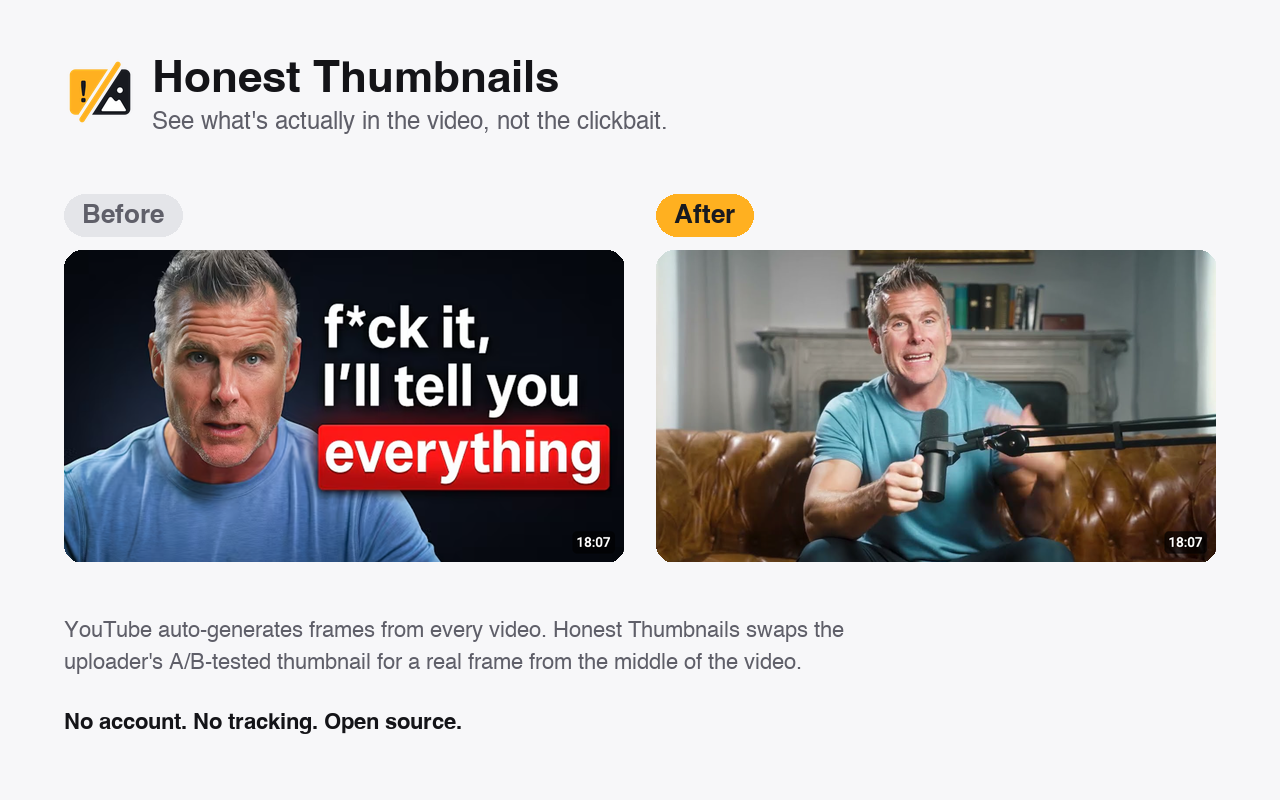
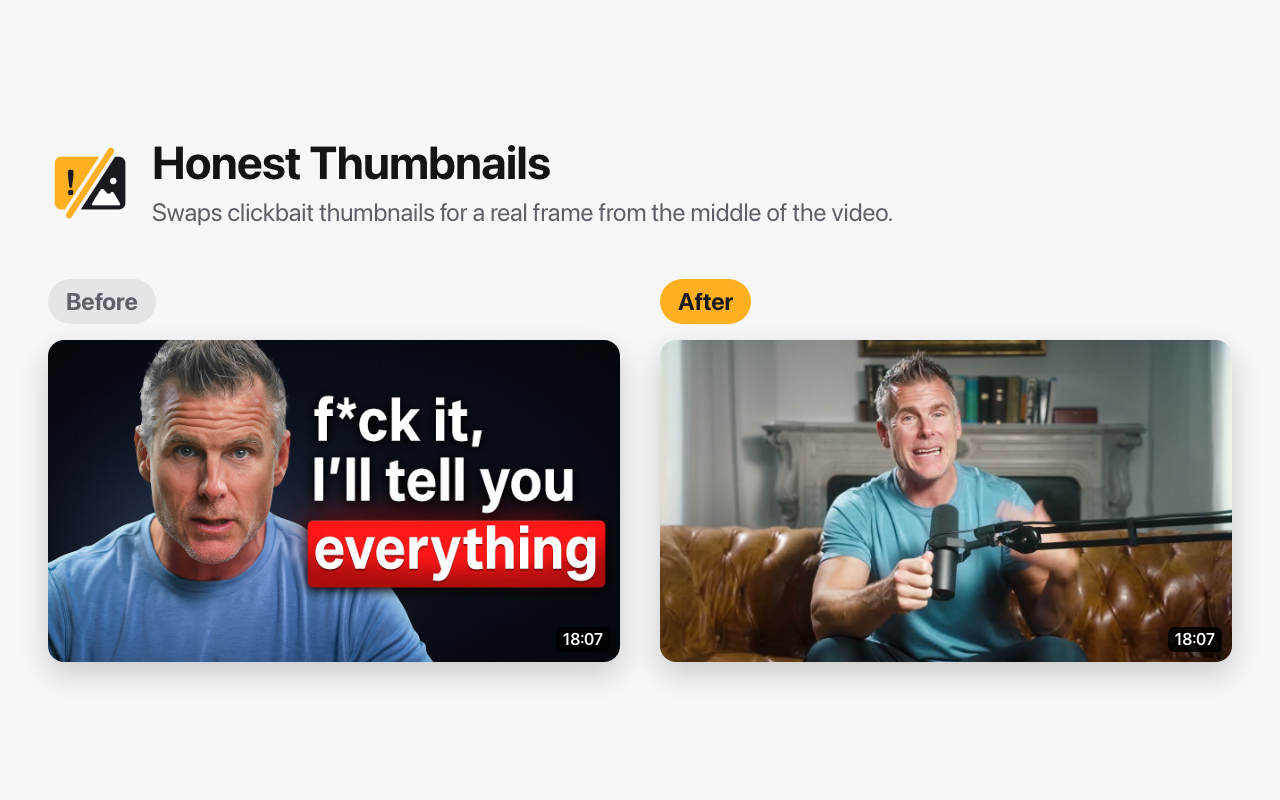
Generate store screenshots from HTML
Screenshot 1 is now a committed HTML page rendered to PNG by
store/build.sh (Playwright via npx), instead of a throwaway PIL script.
It uses YouTube's own maxresdefault/maxres2 images for the video, saved
under store/screenshots/assets. Layout: left-aligned header with a
single subheader above the before/after pair.

diff --git a/store/screenshots/shared.css b/store/screenshots/shared.css
@@ -1,0 +1,64 @@
+/* Shared styles for Chrome Web Store screenshots (rendered at 1280x800). */
+* { box-sizing: border-box; margin: 0; padding: 0; }
+
+:root {
+  --bg: #f7f7f9;
+  --ink: #141418;
+  --muted: #5f5f69;
+  --amber: #ffb020;
+  --charcoal: #181a20;
+  --chip: #e4e5e9;
+}
+
+html, body { width: 1280px; height: 800px; overflow: hidden; }
+
+body {
+  background: var(--bg);
+  color: var(--ink);
+  font-family: -apple-system, "SF Pro Display", "Helvetica Neue", Helvetica, Arial, sans-serif;
+  -webkit-font-smoothing: antialiased;
+  padding: 0 48px;
+  display: flex;
+  flex-direction: column;
+  justify-content: center;
+}
+
+/* Logo + title + one-line subheader */
+.header { display: flex; align-items: center; gap: 20px; }
+.header img { width: 84px; height: 84px; }
+.header h1 { font-size: 46px; font-weight: 700; letter-spacing: -0.5px; line-height: 1.1; }
+.header p { margin-top: 8px; font-size: 25px; color: var(--muted); }
+
+/* Before / after pair */
+.pair { display: grid; grid-template-columns: 1fr 1fr; gap: 40px; margin-top: 52px; }
+.label {
+  display: inline-block;
+  margin-bottom: 16px;
+  padding: 8px 18px;
+  border-radius: 999px;
+  font-size: 24px;
+  font-weight: 700;
+}
+.label.before { background: var(--chip); color: var(--muted); }
+.label.after { background: var(--amber); color: var(--charcoal); }
+
+/* A YouTube-style thumbnail */
+.thumb {
+  position: relative;
+  aspect-ratio: 16 / 9;
+  border-radius: 16px;
+  overflow: hidden;
+  box-shadow: 0 12px 30px rgba(0, 0, 0, 0.18);
+}
+.thumb img { display: block; width: 100%; height: 100%; object-fit: cover; }
+.thumb .duration {
+  position: absolute;
+  right: 10px;
+  bottom: 10px;
+  padding: 3px 7px;
+  border-radius: 6px;
+  background: rgba(0, 0, 0, 0.8);
+  color: #fff;
+  font-size: 16px;
+  font-weight: 600;
+}

diff --git a/store/screenshots/1-before-after.html b/store/screenshots/1-before-after.html
@@ -1,0 +1,36 @@
+<!doctype html>
+<html>
+<head>
+  <meta charset="utf-8" />
+  <link rel="stylesheet" href="shared.css" />
+</head>
+<body>
+  <header class="header">
+    <img src="assets/icon.png" alt="" />
+    <div>
+      <h1>Honest Thumbnails</h1>
+      <p>Swaps clickbait thumbnails for a real frame from the middle of the video.</p>
+    </div>
+  </header>
+
+  <!-- Video: https://www.youtube.com/watch?v=3RP6GyCtOAA
+       before = i.ytimg.com/vi/3RP6GyCtOAA/maxresdefault.jpg (uploader's thumbnail)
+       after  = i.ytimg.com/vi/3RP6GyCtOAA/maxres2.jpg      (YouTube's mid-video frame) -->
+  <section class="pair">
+    <div>
+      <span class="label before">Before</span>
+      <div class="thumb">
+        <img src="assets/3RP6GyCtOAA-maxresdefault.jpg" alt="" />
+        <span class="duration">18:07</span>
+      </div>
+    </div>
+    <div>
+      <span class="label after">After</span>
+      <div class="thumb">
+        <img src="assets/3RP6GyCtOAA-maxres2.jpg" alt="" />
+        <span class="duration">18:07</span>
+      </div>
+    </div>
+  </section>
+</body>
+</html>

diff --git a/README.md b/README.md
@@ -23,3 +23,16 @@ Click the toolbar icon to turn it on or off, or to choose the Early / Middle / L
 ## License
 
 MIT, see [LICENSE](LICENSE). Privacy policy: [PRIVACY.md](PRIVACY.md).
+
+## Chrome Web Store assets
+
+Everything for the store listing lives in `store/`:
+
+- `store/screenshots/*.html`: the screenshots, each a 1280×800 HTML page (shared styles in `shared.css`, images in `assets/`). Edit these to change the text or layout.
+- `store/build.sh`: renders each page to `store/screenshot-<name>.png` with Playwright and packages the extension zip. It needs Node; the first run downloads Chromium.
+
+```sh
+store/build.sh          # screenshots + zip
+store/build.sh shots    # screenshots only
+store/build.sh zip      # zip only
+```
